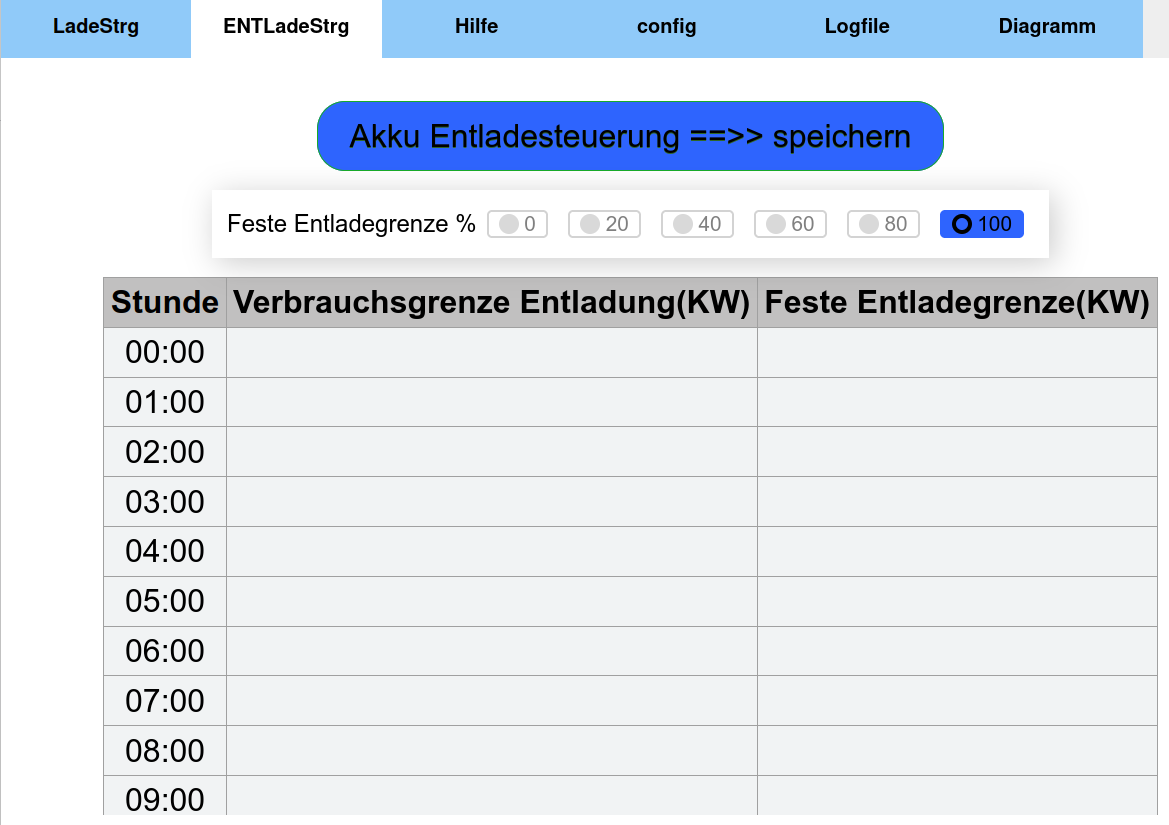
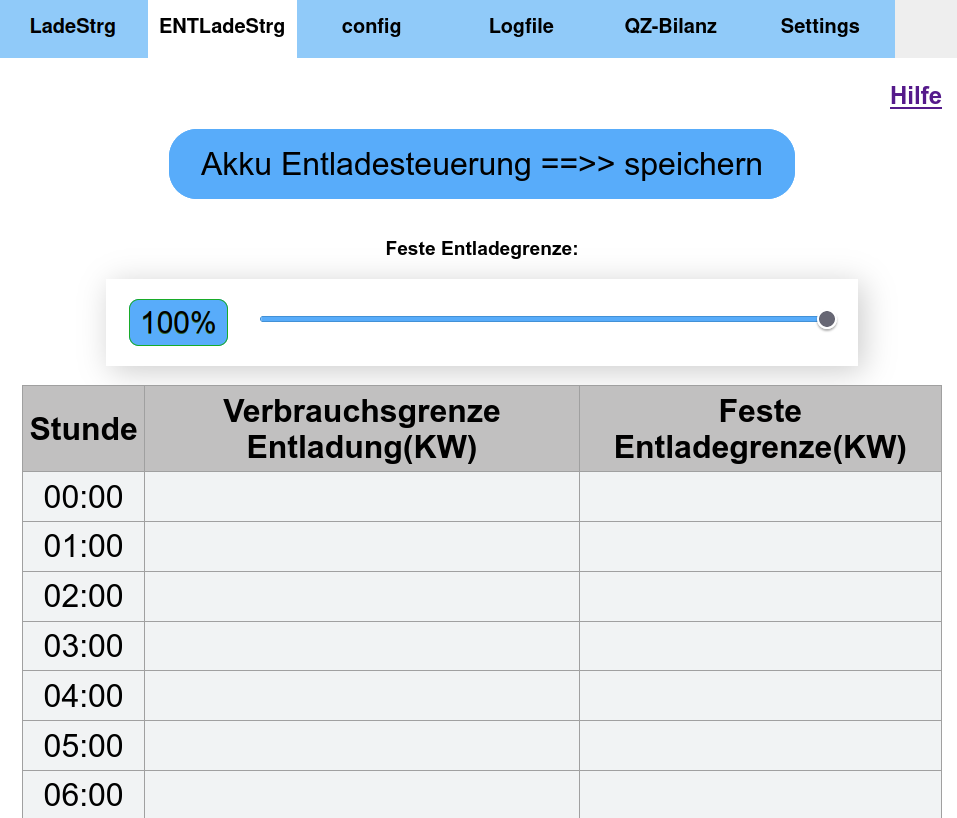
README.md ergänzt.

diff --git a/README.md b/README.md
@@ -135,14 +135,13 @@ Dadurch soll z.B. ein Laden der Batterie aus dem Netz ersichtlich bzw. gezählt 
 ### Batterieladesteuerung ( TAB--> LadeSteuerung )
 ![Tabelle zur Ladesteuerung](pics/Ladesteuerung.png)
 
-Alle eingetragenen Reservierungen werden in die Datei /DIR/Watt_Reservierung.json geschrieben.  
-In der html/config.php können die Variablen angepasst werden (z.B. $PV_Leistung_KWp) .   
+Alle eingetragenen Reservierungen werden in die DB CONFIG/Prog_Steuerung.sqlite geschrieben.  
 
 Ist das Modul eingeschaltet (in /DIR/config.ini -->> PV_Reservierung_steuern = 1) wird die Reservierung  
 beim nächsten Aufruf von SymoGen24Controller2.py in der Ladeberechnung berücksichtigt.
 
-Mit einer gewählten Ladestufe (AUS, HALB, VOLL) unter Hausakkuladung wird die entsprechende Batterieladeleistung,
-beim nächsten Aufruf von SymoGen24Controller2.py auf den Wechselrichter geschrieben.  
+Ist nicht AUTO gewählt, erfolgte eine Batterieladung der eingestellten Prozentzahl der **maximalen Ladeleisung des GEN24**,
+beim nächsten Aufruf von http- bzw. SymoGen24Controller2.py auf den Wechselrichter geschrieben.  
 Die prognosebasierte Ladesteuerung ist dadurch deaktivieren, und kann mit der Option "AUTO" wieder aktiviert werden.  
 
 Weitere Erklärungen stehen in der verlinkten Hilfe oder im Wiki.  
@@ -150,8 +149,7 @@ Weitere Erklärungen stehen in der verlinkten Hilfe oder im Wiki.
 ### BatterieENTladesteuerung ( TAB--> EntladeSteuerung )
 ![Tabelle zur Entladesteuerung](pics/Entladesteuerung.png)
 
-Unter "Feste Entladegrenze " kann die maximale Entladeleistung
-in den Schritten 0, 20, 40, 60, 80 oder 100 Prozent fest eingestellt werden.
+Unter "Feste Entladegrenze " kann die maximale Entladeleistung in Prozent der WR-Entladeleistung fest eingestellt werden.
 
 In der Entladetabelle können Leistungen in KW zur Steuerung der Akkuentladung eingetragen werden.
 
